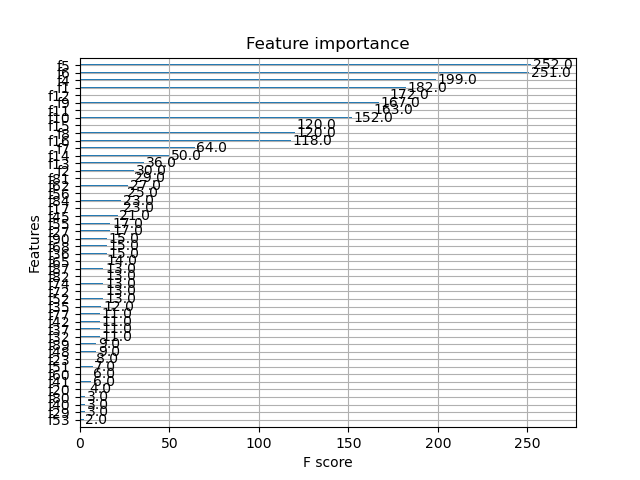
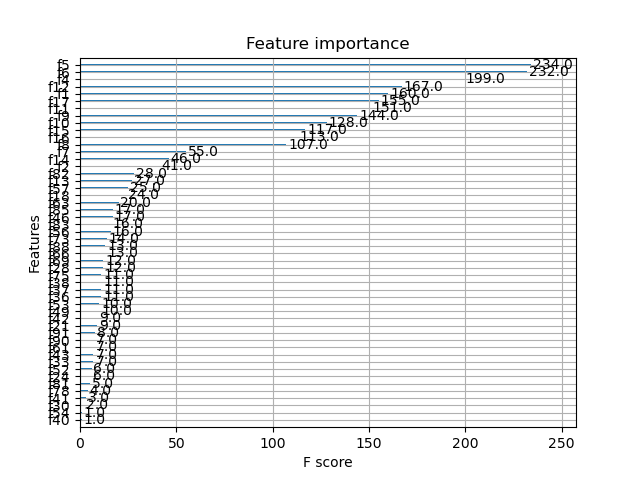
map 'Zip Code' to 'Population'

diff --git a/final.py b/final.py
@@ -9,9 +9,7 @@ from xgboost import XGBClassifier, plot_importance
 
 def load_data(dir, mode='Train'):
     """
-        Load all csv files and combine them to two dataframes.
-        The 1st dataframe is from csv files that have 'Customer ID'.
-        The 2nd dataframe is from 'population.csv', which is not directly relative to customers.
+        Load all csv files and combine them to a dataframe.
     """
     # load train/test IDs
     assert mode in ['Train', 'Test']
@@ -26,10 +24,13 @@ def load_data(dir, mode='Train'):
     # load 'population.csv'
     filepath = os.path.join(dir, 'population.csv')
     population = pd.read_csv(filepath)
+    # map 'Zip Code' to 'Population'
+    df['Population'] = df['Zip Code'].replace(population.set_index('Zip Code')['Population'])
+    df = df.drop('Zip Code', axis=1)
 
-    return df, population
+    return df
 
-def get_mapper(df, population):
+def get_mapper(df):
     """
         Compute the mapping functions from data.
         The mapping functions are used for missing value imputation.
@@ -38,7 +39,7 @@ def get_mapper(df, population):
     for col_name in df.columns:
         if col_name in ['Customer ID', 'Churn Category']:
             continue
-        elif col_name in ['Count', 'Country', 'State', 'City', 'Quarter', 'Lat Long', 'Zip Code']:
+        elif col_name in ['Count', 'Country', 'State', 'City', 'Quarter', 'Lat Long']:
             continue
         elif df[col_name].dtypes == 'float64':
             # store the mean
@@ -49,7 +50,7 @@ def get_mapper(df, population):
             mapper[col_name] = (categories, df[col_name].mode()[0])
     return mapper
 
-def preprocess_data(df, population, mapper):
+def preprocess_data(df, mapper):
     """
         Preprocess data to numpy arrays, including:
         1. impute missing values,
@@ -62,7 +63,7 @@ def preprocess_data(df, population, mapper):
     for col_name in df.columns:
         if col_name in ['Customer ID', 'Churn Category']: # skip
             continue
-        elif col_name in ['Count', 'Country', 'State', 'City', 'Quarter', 'Lat Long', 'Zip Code']: # useless features
+        elif col_name in ['Count', 'Country', 'State', 'City', 'Quarter', 'Lat Long']: # useless features
             df = df.drop(col_name, axis=1)
         elif df[col_name].dtypes == 'float64': # numeric features
             val = mapper[col_name]
@@ -106,9 +107,9 @@ def main():
     seed = 0 # for reproducibility
 
     # training phase
-    customers, population = load_data(DATA_DIR, mode='Train')
-    mapper = get_mapper(customers, population)
-    x, y, _ = preprocess_data(customers, population, mapper)
+    customers = load_data(DATA_DIR, mode='Train')
+    mapper = get_mapper(customers)
+    x, y, _ = preprocess_data(customers, mapper)
     print(f'train data shape: {x.shape}, {y.shape}')
     x_train, y_train, x_val, y_val = train_test_split(x, y, 3000, random_state=seed)
 
@@ -129,8 +130,8 @@ def main():
         print('val f1 score:\t{:.4f}\n'.format(f1_score(y_val, y_pred, average='macro')))
 
     # testing phase
-    customers, _ = load_data(DATA_DIR, mode='Test')
-    _, _, x_test = preprocess_data(customers, population, mapper)
+    customers = load_data(DATA_DIR, mode='Test')
+    _, _, x_test = preprocess_data(customers, mapper)
     print(f'test data shape: {x_test.shape}')
     y_pred = model.predict(x_test)
     print(y_pred)
